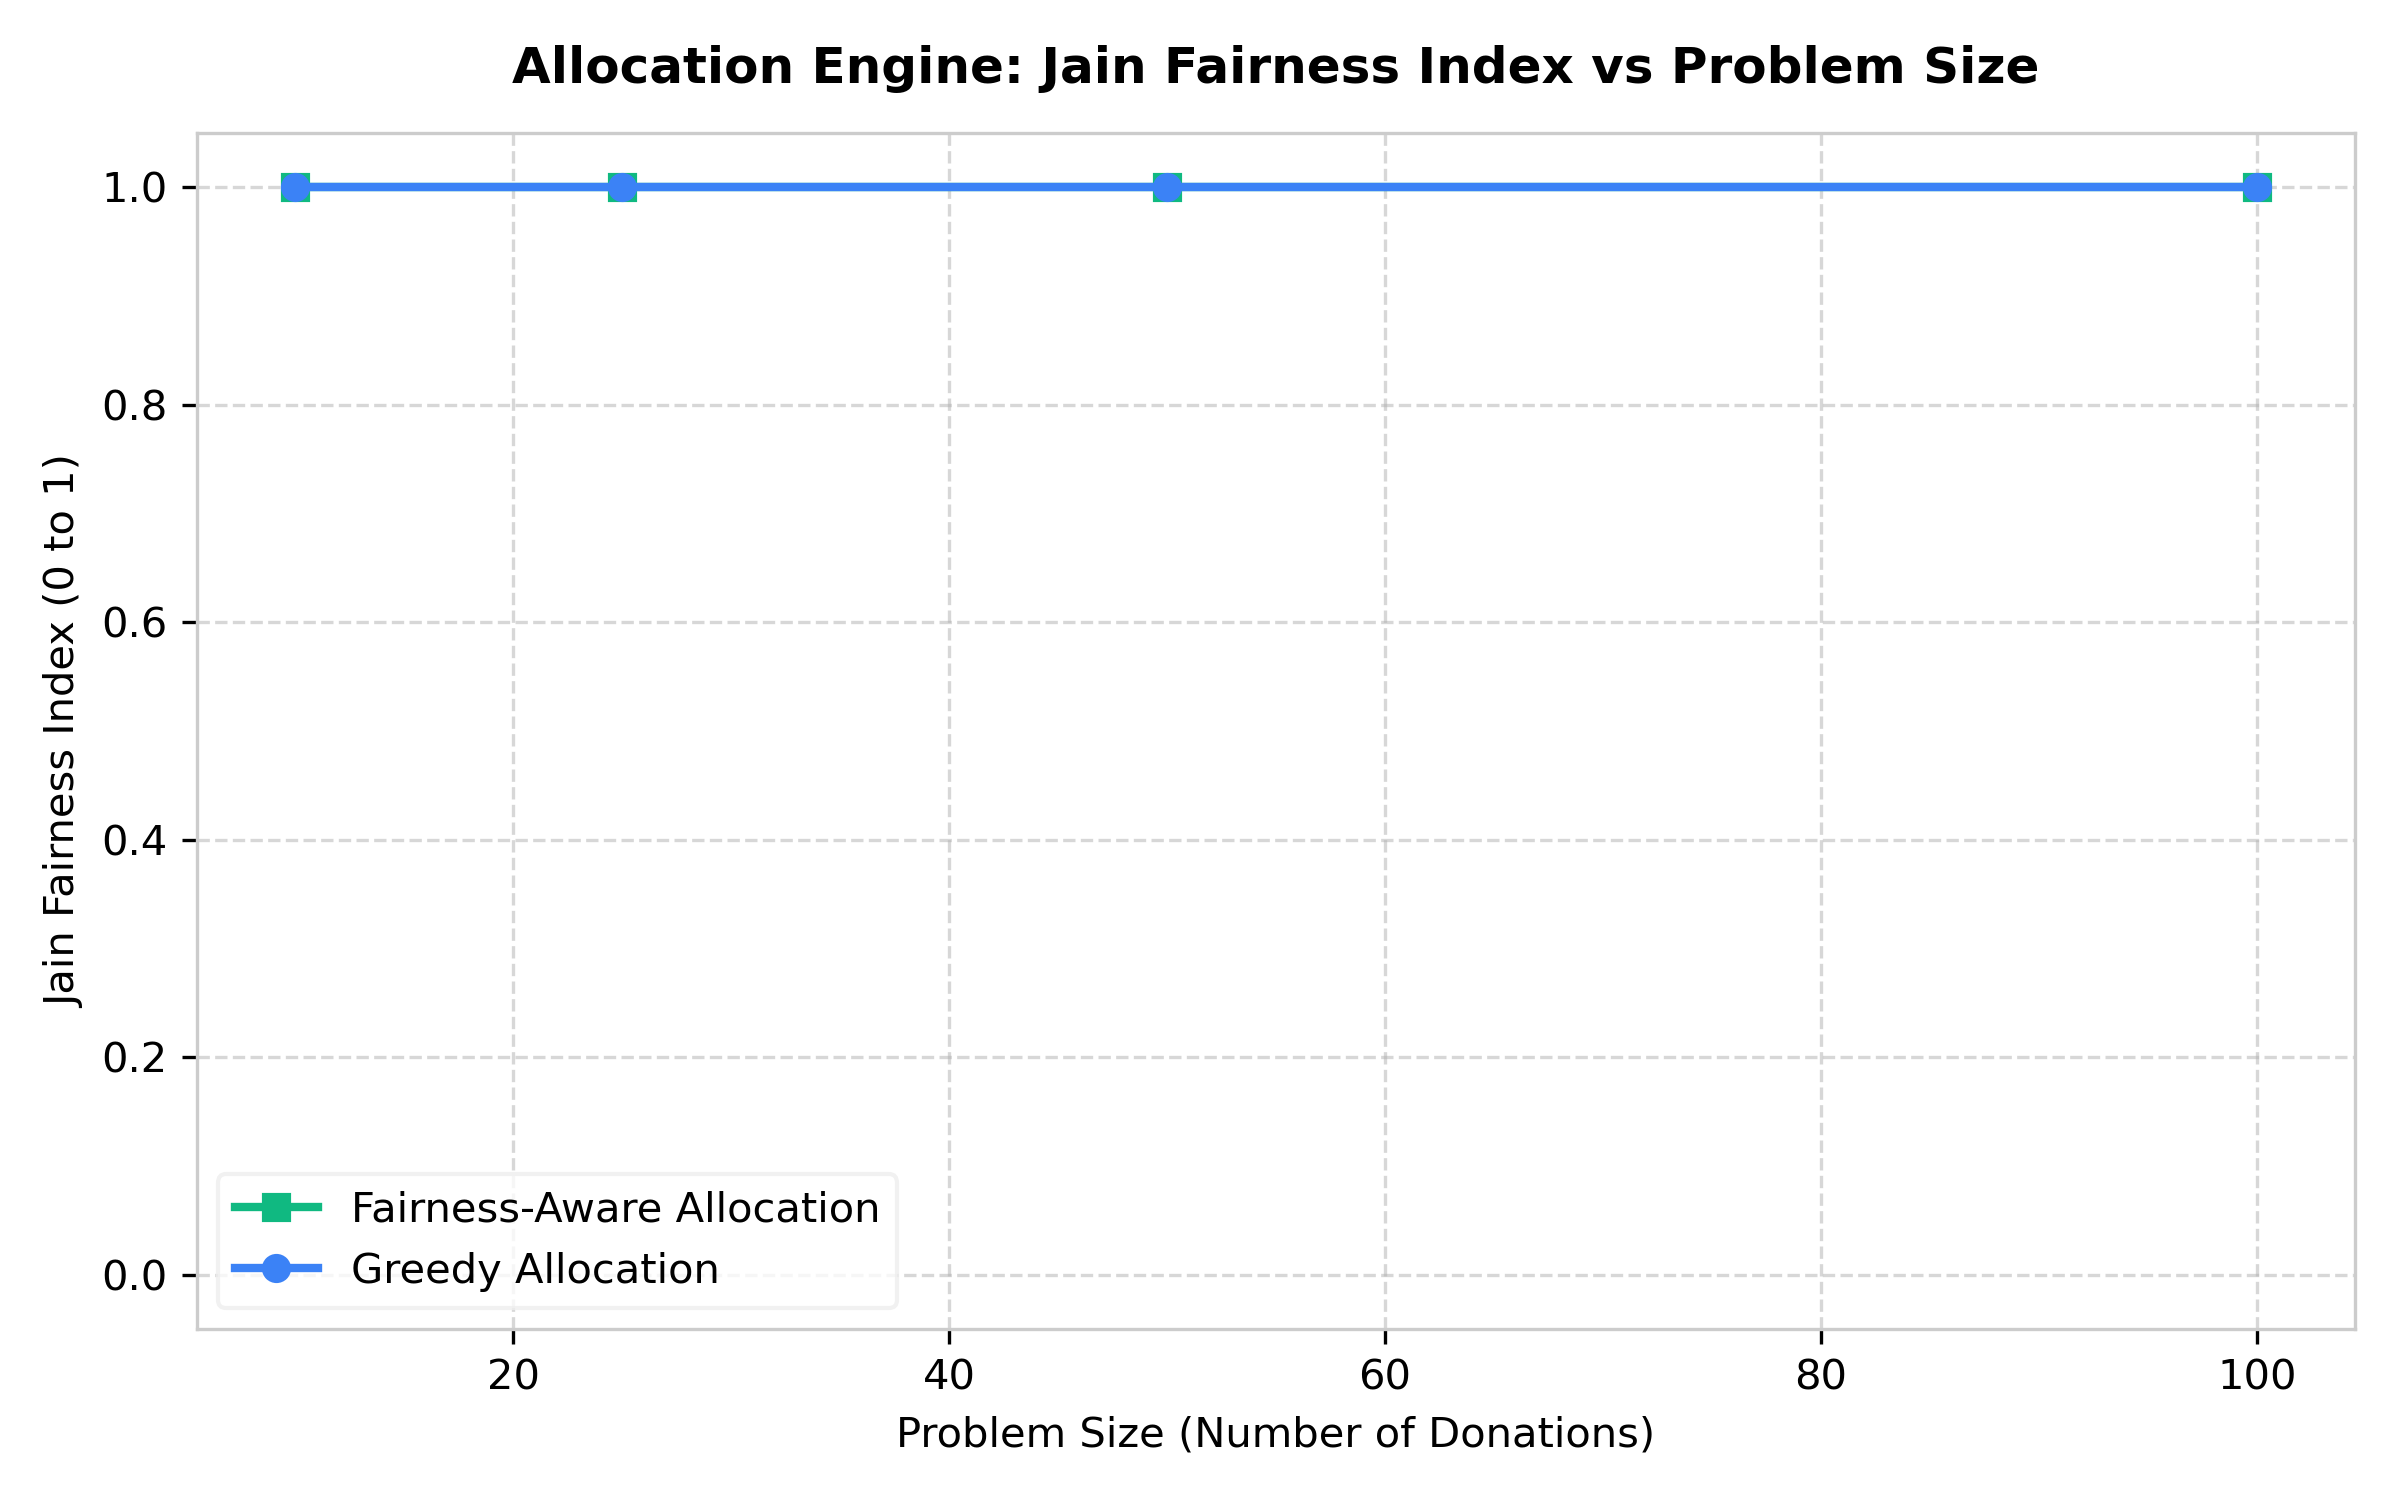
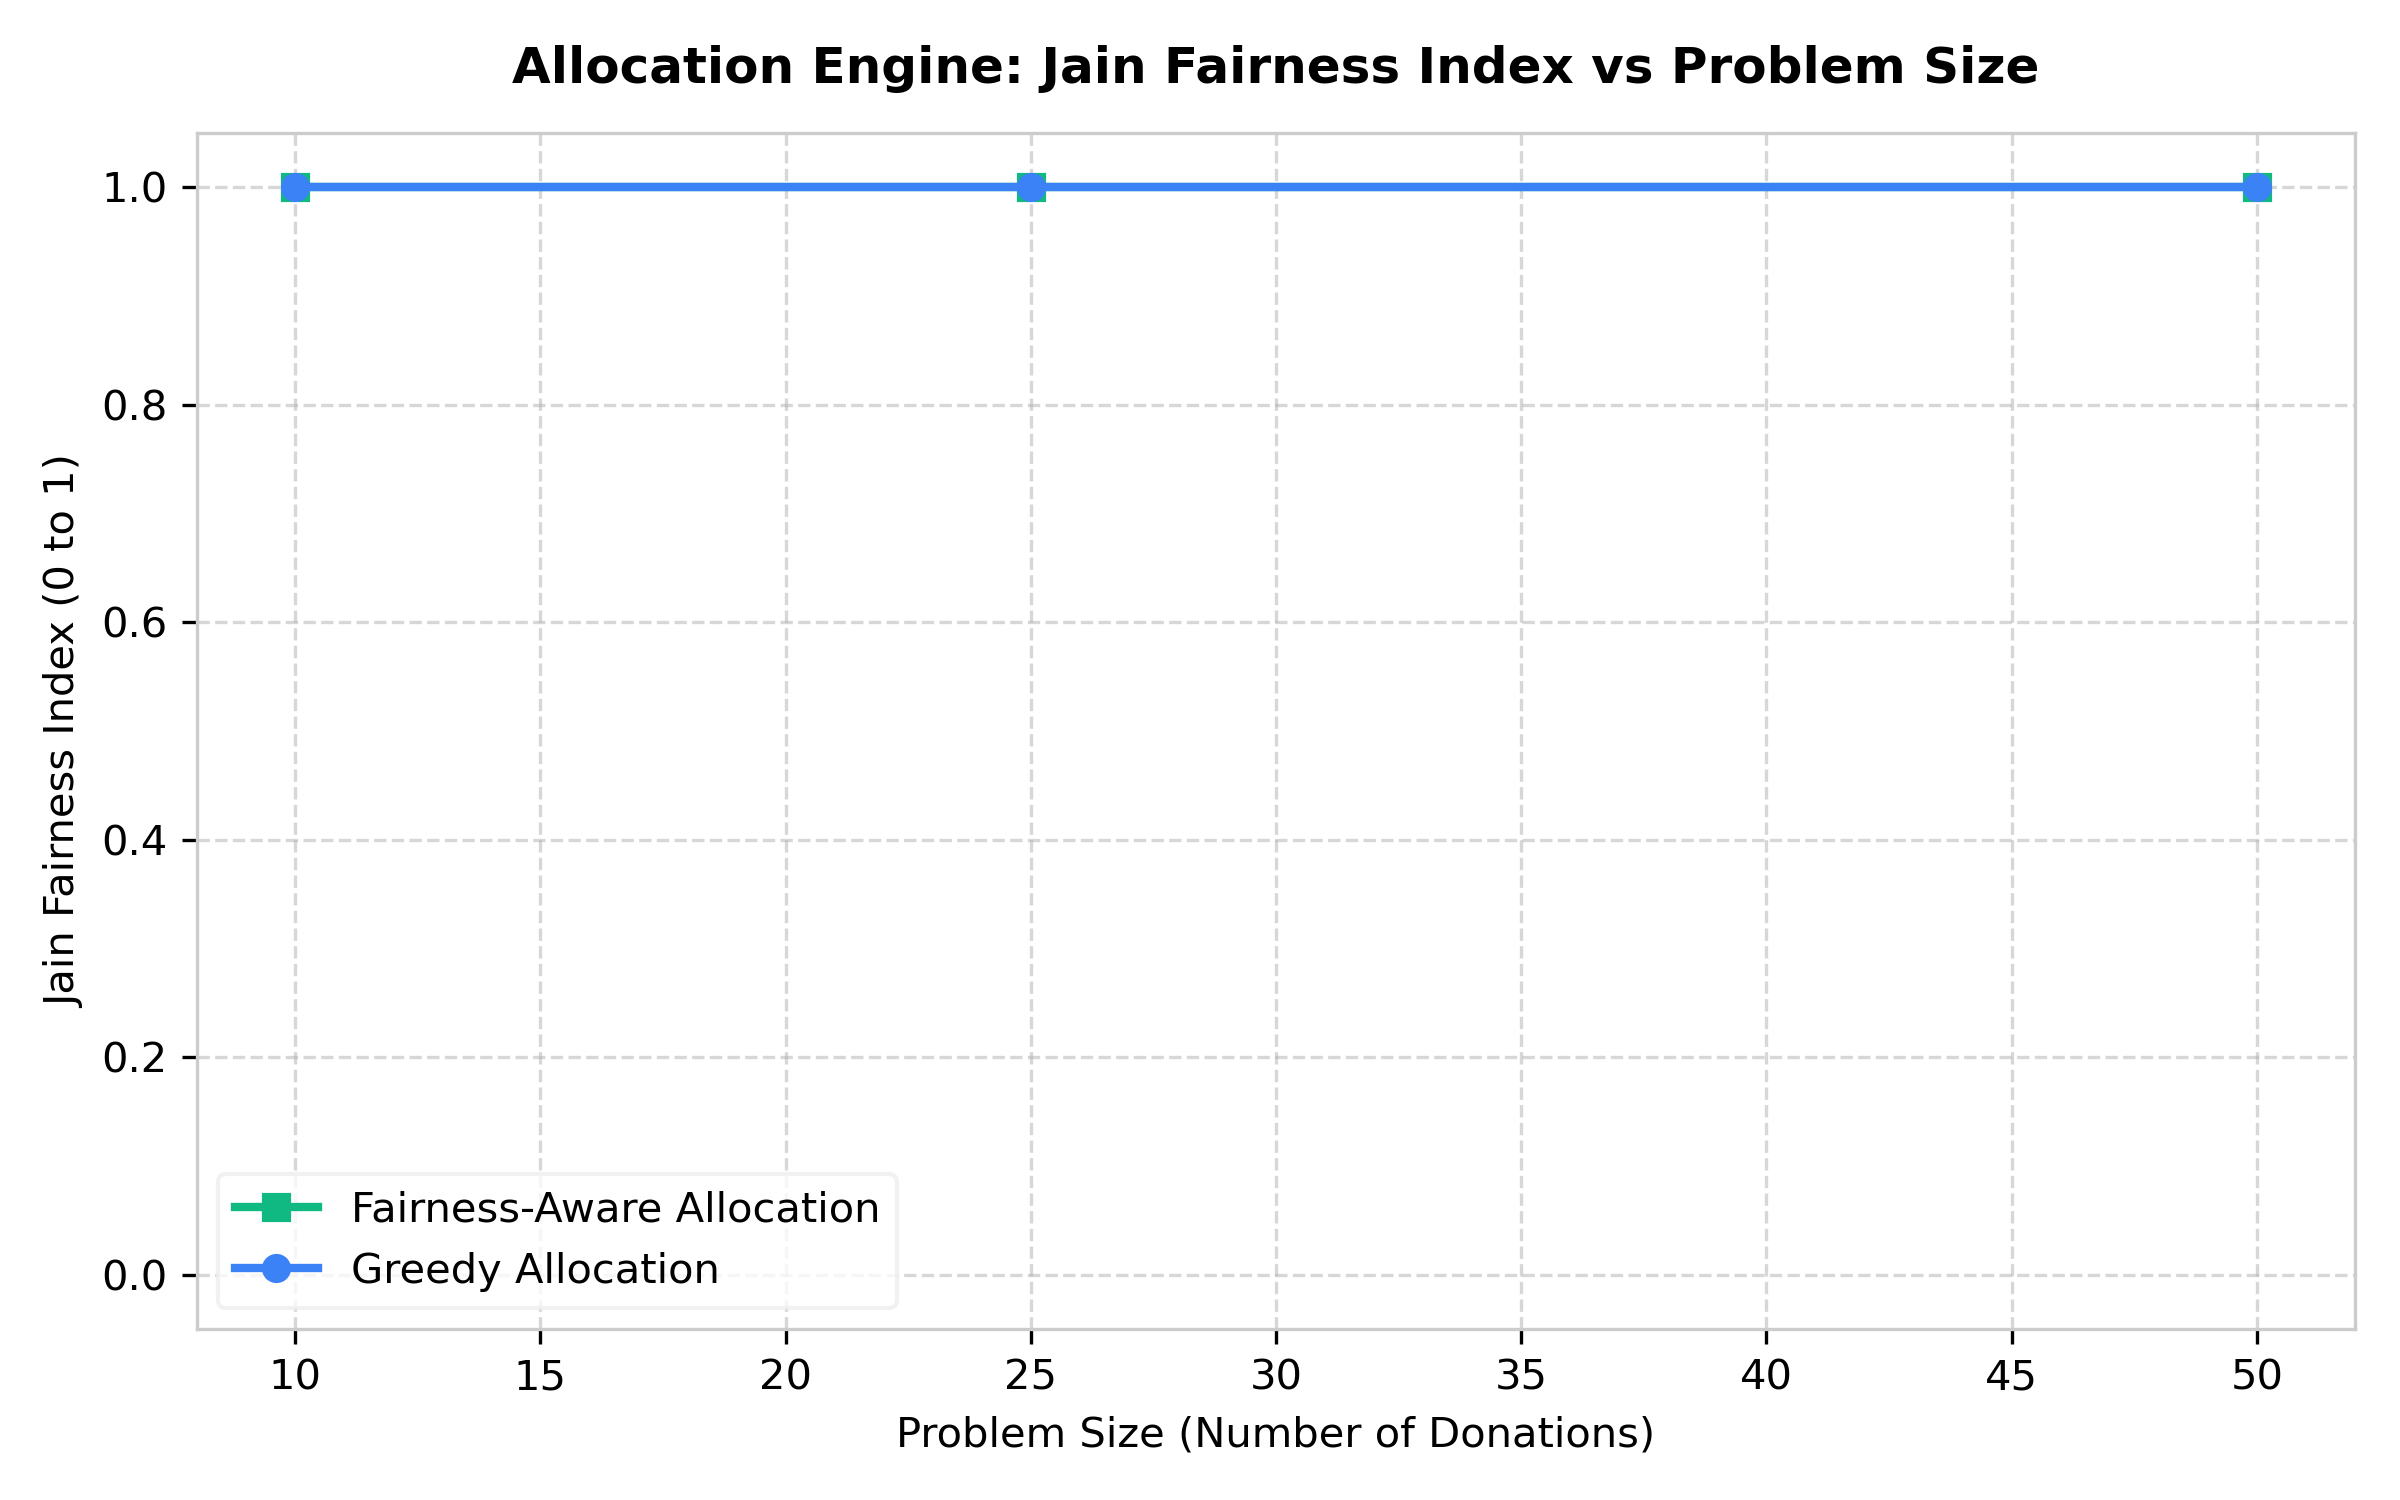
feat(simulation): add reproducible benchmarking framework

diff --git a/simulation/run_benchmarks.py b/simulation/run_benchmarks.py
@@ -21,13 +21,13 @@ def parse_args():
     parser.add_argument(
         "--quick",
         action="store_true",
-        help="Run a quick smoke benchmark with small sizes (10, 25) and single seed.",
+        help="Run a quick smoke benchmark with sizes (10, 25, 50), seed 42, 1 repetition.",
     )
     parser.add_argument(
         "--sizes",
         type=str,
-        default="10,25,50,100",
-        help="Comma-separated problem sizes (default: 10,25,50,100). Larger sizes like 250,500,1000 can also be passed.",
+        default="10,25,50,100,250,500,1000",
+        help="Comma-separated problem sizes (default: 10,25,50,100,250,500,1000).",
     )
     parser.add_argument(
         "--seeds",
@@ -54,18 +54,19 @@ def main():
     args = parse_args()
 
     if args.quick:
-        sizes_alloc = [(10, 5), (25, 12)]
-        sizes_disp = [10, 25]
+        parsed_sizes = [10, 25, 50]
+        sizes_alloc = [(n, max(2, n // 2)) for n in parsed_sizes]
+        sizes_disp = parsed_sizes
         seeds = [42]
         reps = 1
-        print("=== RUNNING QUICK SMOKE BENCHMARK ===")
+        print("=== RUNNING QUICK SMOKE BENCHMARK (Sizes: [10, 25, 50], Seed: 42, Reps: 1) ===")
     else:
         parsed_sizes = [int(s.strip()) for s in args.sizes.split(",") if s.strip()]
         sizes_alloc: List[Tuple[int, int]] = [(n, max(2, n // 2)) for n in parsed_sizes]
         sizes_disp: List[int] = parsed_sizes
         seeds = [int(s.strip()) for s in args.seeds.split(",") if s.strip()]
         reps = args.repetitions
-        print(f"=== RUNNING BENCHMARK (Sizes: {parsed_sizes}, Seeds: {seeds}, Reps: {reps}) ===")
+        print(f"=== RUNNING FULL BENCHMARK (Sizes: {parsed_sizes}, Seeds: {seeds}, Reps: {reps}) ===")
 
     output_dir = args.output_dir
     plots_dir = os.path.join(output_dir, "plots")

diff --git a/simulation/generators/locations.py b/simulation/generators/locations.py
@@ -12,7 +12,11 @@ def generate_locations(
     bounding_box: Tuple[float, float, float, float] = DEFAULT_BOUNDING_BOX,
     seed: Optional[int] = 42,
 ) -> List[Location]:
-    """Generates synthetic lat/lon locations inside a bounding box deterministically."""
+    """Generates synthetic lat/lon locations inside a bounding box deterministically.
+
+    NOTE: All generated geographic coordinates are SYNTHETIC benchmark data
+    and are not real operational locations.
+    """
     rng = random.Random(seed)
     min_lat, max_lat, min_lon, max_lon = bounding_box
 

diff --git a/simulation/benchmarks/allocation_benchmark.py b/simulation/benchmarks/allocation_benchmark.py
@@ -23,6 +23,7 @@ def run_allocation_benchmark(
 
     for num_donations, num_agencies in sizes:
         problem_size = num_donations
+        print(f"  -> Allocation benchmark size {problem_size} ({num_donations} donations, {num_agencies} agencies)...", flush=True)
         for seed in seeds:
             for rep in range(1, repetitions + 1):
                 scenario_seed = seed * 1000 + rep

diff --git a/simulation/benchmarks/dispatch_benchmark.py b/simulation/benchmarks/dispatch_benchmark.py
@@ -35,6 +35,7 @@ def run_dispatch_benchmark(
         num_requests = n
         num_volunteers = n
         problem_size = n
+        print(f"  -> Dispatch benchmark size {problem_size} ({num_requests} reqs, {num_volunteers} vols)...", flush=True)
 
         for seed in seeds:
             for rep in range(1, repetitions + 1):
